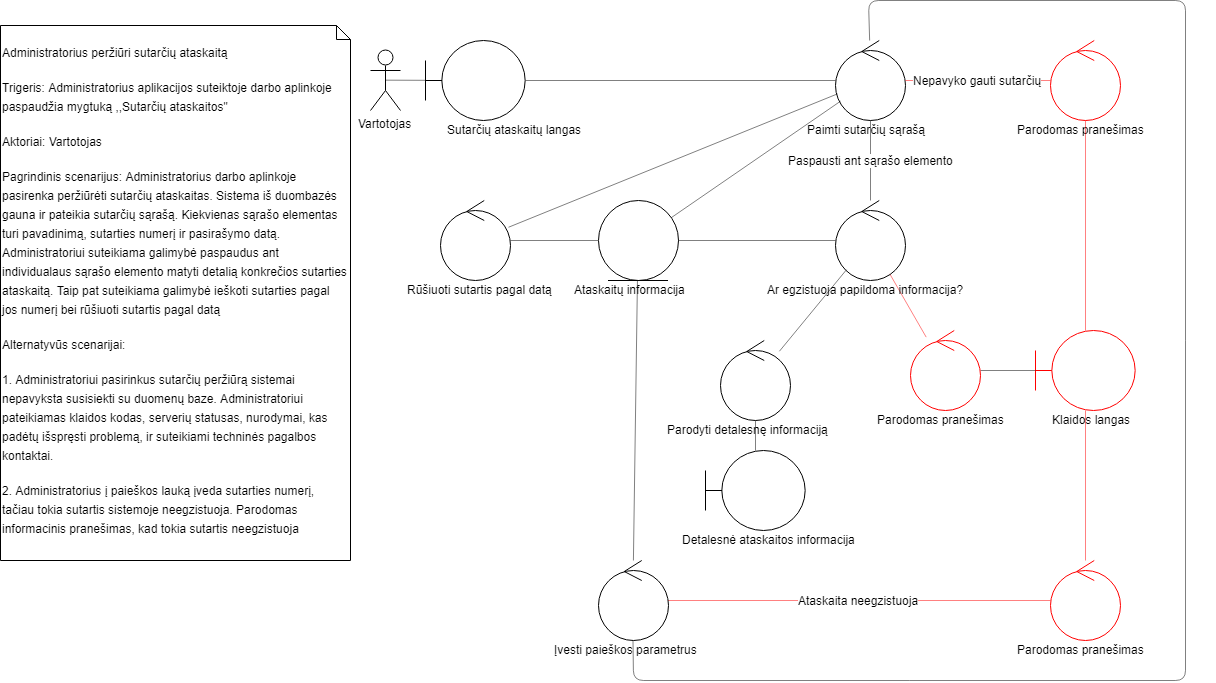
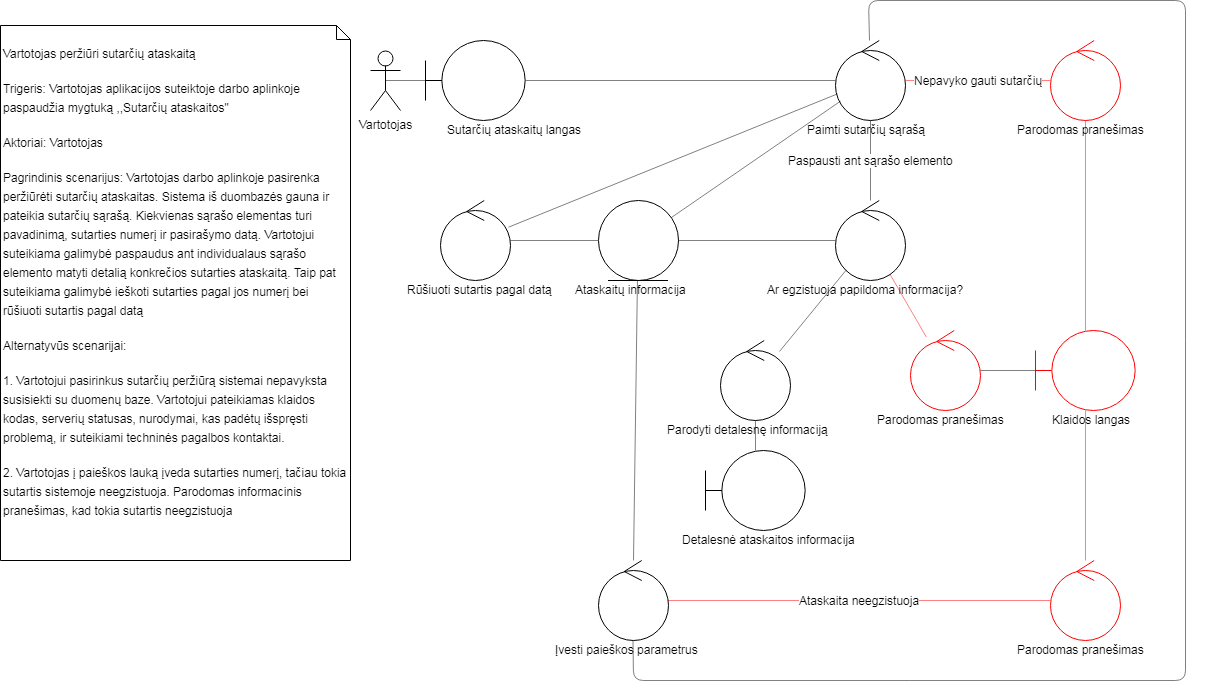
Rob5 pakeitimas
Aktorius pakeistas is administratoriaus i vartotoja

diff --git a/PSI II Lab 2/PSI II 2 Labaratorinis.tex b/PSI II Lab 2/PSI II 2 Labaratorinis.tex
@@ -218,6 +218,7 @@
 	Pataisymo nr. & Use case numeris & Klaidos aprašas \\ \hline
 	1 & 1 & Ištrintas užduotyje esantis NFR ir pridėtas į NFR sąrašą\\ \hline
 	2 & 2 & Ištrintas užduotyje esantis NFR, pakeistas į FR ir pridėtas į FR sąrašą\\ \hline
+	3 & 5 & Aktorius pakeistas iš administratoriaus į vartotoją\\ \hline
 \end{longtable}
 
 
